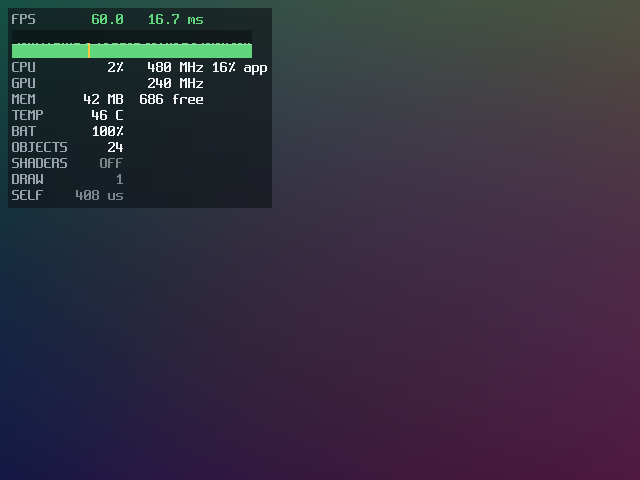
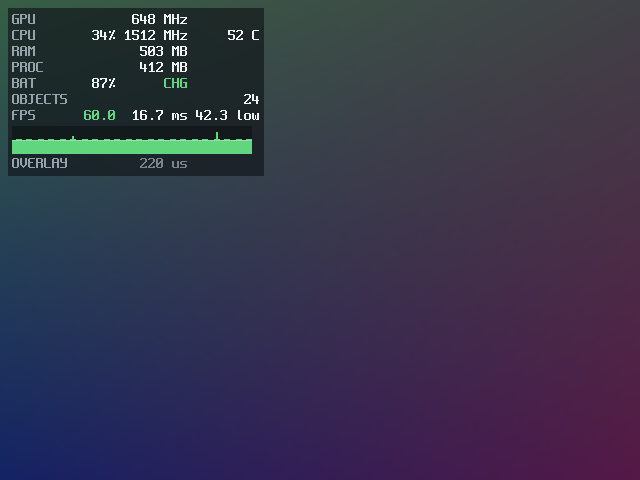
docs: update the screenshots for the tabbed menu and MangoHud rows

Changed region(s): [[0.0, 0.0, 0.4375, 0.4375], [0.0, 0.625, 0.375, 1.0]]

diff --git a/examples/demo.c b/examples/demo.c
@@ -88,9 +88,9 @@ static uint64_t simulated_interval(int bad, int frame) {
     static const double jitter[] = {0.0, 0.2, -0.2, 0.3, -0.3, 0.1, -0.1, 0.25, -0.25, 0.15, -0.15};
     int at = frame % 120;
     if (at == 23)
-        return (uint64_t)38e6;
+        return (uint64_t)25e6;
     if (at == 71)
-        return (uint64_t)27e6;
+        return (uint64_t)21e6;
     return (uint64_t)((16.67 + jitter[(frame * 7) % 11]) * 1e6);
 }
 static GLuint backdrop_texture(const char *path) {

diff --git a/README.md b/README.md
@@ -6,7 +6,7 @@ Settings menu and performance overlay for Linux ports on ARM handhelds
 <p align="center"><img src="docs/images/overlay-galaxy.gif" alt="The overlay and its settings menu over gameplay on an RG40XX-H" width="640"></p>
 
 <p align="center">
-<img src="docs/images/overlay-menu.png" alt="The Overlay page of the settings menu" width="320">
+<img src="docs/images/overlay-menu.png" alt="The Show tab of the settings menu" width="320">
 <img src="docs/images/overlay-full.png" alt="The Full preset" width="320">
 </p>
 
